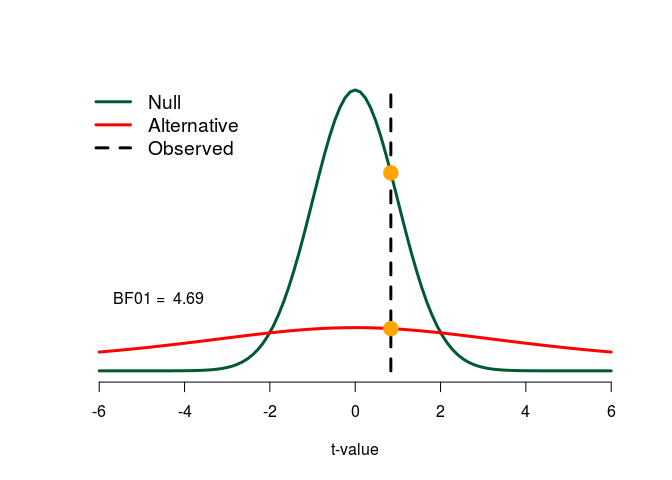
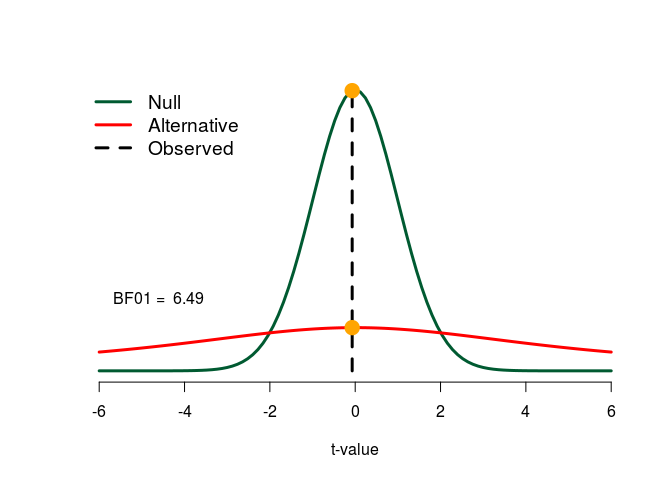
some additions to readme

diff --git a/README.md b/README.md
@@ -28,7 +28,7 @@ visualize_prior()
 
 ![](README_files/figure-markdown_github/unnamed-chunk-3-1.png)
 
-The function `visualize_prior` is the first function from the package `bayesEd` that we are using; it simply draws the hypotheses. I called the function without specifying any arguments (see `?visualize_prior` for a description of all parameters that can be passed). In this case by default, the function assumes a Cauchy alternative hypothesis. The shape of the Cauchy distribution is described by a scaling parameter *r*; it describes the proportion of probability mass that lies between −*r* and *r*. The default scaling parameter is $\\frac{\\sqrt{2}}{2} \\approx 0.71$, which is the also the default setting in the package `BayesFactor`. The following plot illustrates the scaling parameter:
+The function `visualize_prior` is the first function from the package `bayesEd` that we are using; it simply draws the hypotheses. I called the function without specifying any arguments (see `?visualize_prior` for a description of all parameters that can be passed). In this case by default, the function assumes a Cauchy alternative hypothesis. The shape of the Cauchy distribution is described by a scaling parameter *r*; it describes the proportion of probability mass that lies between −*r* and *r*. The default scaling parameter is sqrt2/2 ≈ 0.71, which is the also the default setting in the package `BayesFactor`. The following plot illustrates the scaling parameter:
 
 ![](README_files/figure-markdown_github/unnamed-chunk-4-1.png)
 
@@ -67,7 +67,7 @@ visualize_predictions(alternative = NULL, n1 = 50, n2 = 50)
 
 The function `visualize_predictions` illustrates the predictions of hypotheses. Here, I only wanted to illustrate the predictions of the null hypothesis and therefore, I set the argument `alternative` to `NULL`. Note that the predictions of a hypothesis do not only depend on the prior, but also on the sample size. For this reason, I used the parameters `n1` and `n2` to specify two hypothetical group sizes of 50, yielding a total *n* of 100.
 
-The argument `alternative` works in the same way as for the function `visualize_priors`. Usually, it is a function object describing the distribution of effect sizes according to the alternative hypothesis. Again, the default alternative is a Cauchy prior with scaling parameter $\\frac{\\sqrt{2}}{2}$. The following call illustrates the predictions of the Cauchy prior and the null hypothesis for a sample size of 100:
+The argument `alternative` works in the same way as for the function `visualize_priors`. Usually, it is a function object describing the distribution of effect sizes according to the alternative hypothesis. Again, the default alternative is a Cauchy prior with scaling parameter sqrt2/2 ≈ 0.71. The following call illustrates the predictions of the Cauchy prior and the null hypothesis for a sample size of 100:
 
 ``` r
 visualize_predictions(n1 = 50, n2 = 50)
@@ -113,7 +113,7 @@ visualize_predictions(n1 = groupn, n2 = groupn, observed_t = tvalue, BF10 = FALS
 
 ![](README_files/figure-markdown_github/unnamed-chunk-11-1.png)
 
-Here, I sample 100 observations per group that do not differ in their population mean, i.e., the effect size in the population is zero. More often than not, I will obtain a Bayes factor that favors the null hypothesis over the alternative hypothesis. To illustrate the evidence in favor of the null as compared to the null hypothesis, I set the argument `BF10` to `FALSE`; run the code to see what happens when I do not do this.
+Here, I sample 100 observations per group that do not differ in their population mean, i.e., the effect size in the population is zero. More often than not, I will obtain a Bayes factor that favors the null hypothesis over the alternative hypothesis. To illustrate the evidence in favor of the null as compared to the null hypothesis, I set the argument `BF10` to `FALSE`; run the code to see what happens when this is not done .
 
 I encourage to use the package `BayesFactor` to compute Bayes factors for the t-test that offers more functionality like, for example, the possibility to compute Bayes factors for paired t-tests. To reproduce my analysis above, we can also use the following code employing the package `BayesFactor`:
 
@@ -124,12 +124,49 @@ library("BayesFactor")
 
     ## Bayes factor analysis
     ## --------------
-    ## [1] Null, mu1-mu2=0 : 4.689428 ±0%
+    ## [1] Null, mu1-mu2=0 : 6.485053 ±0%
     ## 
     ## Against denominator:
     ##   Alternative, r = 0.707106781186548, mu =/= 0 
     ## ---
     ## Bayes factor type: BFindepSample, JZS
+
+Predictions of different priors
+-------------------------------
+
+The primary strength of the package `bayesEd` is that Bayes factors for different priors can be computed and visualized. This may be used for educational purposes, e.g., to teach the Bayes factor to students. The following is a gallery for different priors and their predictions. I use the data from the example above where I sampled 200 observations:
+
+``` r
+## Use a point hypothesis as the alternative. In this case, the argument
+## alternative is not a function object, but a scalar number:
+visualize_prior(0.4)
+```
+
+![](README_files/figure-markdown_github/unnamed-chunk-13-1.png)
+
+``` r
+visualize_predictions(alternative = 0.4, n1 = groupn, n2 = groupn, observed_t = tvalue)
+```
+
+![](README_files/figure-markdown_github/unnamed-chunk-13-2.png)
+
+``` r
+## Use a normal distribution as the alternative
+normal_alt <- function(x) dnorm(x, mean = 0.5, sd = 0.3)
+visualize_prior(normal_alt)
+```
+
+![](README_files/figure-markdown_github/unnamed-chunk-13-3.png)
+
+``` r
+visualize_predictions(alternative = normal_alt, n1 = groupn, n2 = groupn,
+                      observed_t = tvalue, from = -4, to = 8, BFx = 4,
+                      BFy = dt(0, 198) * 0.9, BF10 = FALSE)
+```
+
+![](README_files/figure-markdown_github/unnamed-chunk-13-4.png)
+
+Also see `?visualize_predictions` for a description of all arguments of the function.
 
 References
 ==========
